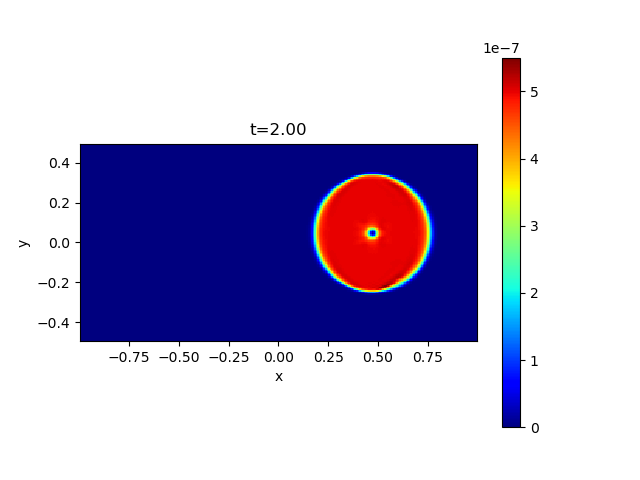
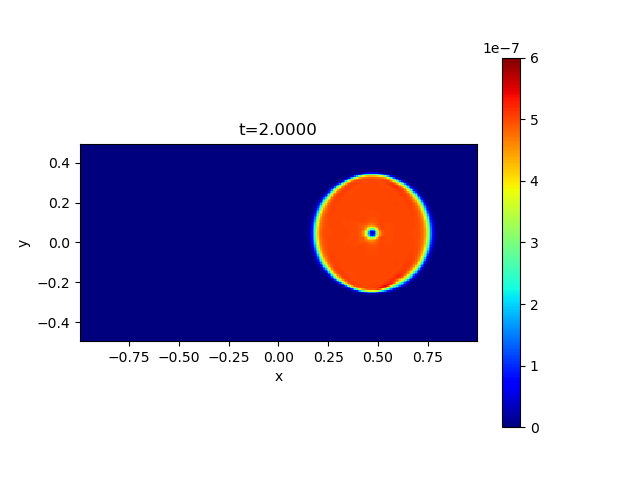
remake 2d images

diff --git a/2D/SERIAL/python/batch.py b/2D/SERIAL/python/batch.py
@@ -69,21 +69,12 @@ ro=data2[0,:,:]
 vx=data2[1,:,:]/ro
 vy=data2[2,:,:]/ro
 vz=data2[3,:,:]/ro
-bx=data2[4,:,:]
-by=data2[5,:,:]
-bxct=bx
-byct=by
-#Check divB (2nd-order)
-divb=np.zeros((ny-2*yoff,nx-2*xoff))
-for j in range(0,ny-2*yoff):
-    for i in range(0,nx-2*xoff):
-        divb[j,i]=(+(data[4,j+yoff,i+1+xoff]-data[4,j+yoff,i+xoff])/dx
-                   +(data[5,j+1+yoff,i+xoff]-data[5,j+yoff,i+xoff])/dy)
-#Cell-face to cell-center B
-for i in range(0,nx-2*xoff):
-    bx[:,i]=0.5*(data[4,yoff:ny-yoff,i+xoff]+data[4,yoff:ny-yoff,i+1+xoff])
-for j in range(0,ny-2*yoff):
-    by[j,:]=0.5*(data[5,j+yoff,xoff:nx-xoff]+data[5,j+1+yoff,xoff:nx-xoff])
+# CT faces, including the physical right/top boundary faces, as in MPI.
+bxct=data[4,yoff:ny-yoff,xoff:nx-xoff+1]
+byct=data[5,yoff:ny-yoff+1,xoff:nx-xoff]
+# Cell-center fields are new arrays; preserve the CT values in data.
+bx=0.5*(bxct[:,:-1]+bxct[:,1:])
+by=0.5*(byct[:-1,:]+byct[1:,:])
 bz=data2[6,:,:]
 en=data2[7,:,:]
 if phi_g is not None:
@@ -91,11 +82,13 @@ if phi_g is not None:
 pr=(gam-1)*(en-0.5*(ro*(vx**2+vy**2+vz**2)+(bx**2+by**2+bz**2)))
 data2=np.array([ro,vx,vy,vz,pr,bx,by,bz])
 
-# Current
-jz=np.zeros((ny-2*yoff,nx-2*xoff))
-for j in range(1,ny-2*yoff):
-    for i in range(1,nx-2*xoff):
-        jz[j,i]=(by[j,i]-by[j,i-1])/dx-(bx[j,i]-bx[j-1,i])/dy # @ corner (i-1/2,j-1/2)
+# CT divergence at all cell centers (second-order diagnostic).
+divb=(bxct[:,1:]-bxct[:,:-1])/dx+(byct[1:,:]-byct[:-1,:])/dy
+# Current at interior corners only, matching the MPI post-processing layout.
+# jz.shape=(len(y)-1,len(x)-1); xjz,yjz are its coordinates.
+xjz=0.5*(x[1:]+x[:-1])
+yjz=0.5*(y[1:]+y[:-1])
+jz=(byct[1:-1,1:]-byct[1:-1,:-1])/dx-(bxct[1:,1:-1]-bxct[:-1,1:-1])/dy
 
 # #Plot
 val=pr/ro

diff --git a/2D/SERIAL/python/batch_a.py b/2D/SERIAL/python/batch_a.py
@@ -69,15 +69,12 @@ ro=data2[:,0,:,:]
 vx=data2[:,1,:,:]/ro
 vy=data2[:,2,:,:]/ro
 vz=data2[:,3,:,:]/ro
-bx=data2[:,4,:,:]
-by=data2[:,5,:,:]
-bxct=bx
-byct=by
-#Cell-face to cell-center B
-for i in range(0,nx-2*xoff):
-    bx[:,:,i]=0.5*(data[:,4,yoff:ny-yoff,i+xoff]+data[:,4,yoff:ny-yoff,i+1+xoff])
-for j in range(0,ny-2*yoff):
-    by[:,j,:]=0.5*(data[:,5,j+yoff,xoff:nx-xoff]+data[:,5,j+1+yoff,xoff:nx-xoff])
+# CT faces, including the physical right/top boundary faces, as in MPI.
+bxct=data[:,4,yoff:ny-yoff,xoff:nx-xoff+1]
+byct=data[:,5,yoff:ny-yoff+1,xoff:nx-xoff]
+# Cell-center fields are new arrays; preserve the CT values in data.
+bx=0.5*(bxct[:,:,:-1]+bxct[:,:,1:])
+by=0.5*(byct[:,:-1,:]+byct[:,1:,:])
 bz=data2[:,6,:,:]
 en=data2[:,7,:,:]
 if phi_g is not None:
@@ -85,3 +82,11 @@ if phi_g is not None:
     en=en-ro*phi_g
 pr=(gam-1)*(en-0.5*(ro*(vx**2+vy**2+vz**2)+(bx**2+by**2+bz**2)))
 data2=np.array([ro,vx,vy,vz,pr,bx,by,bz])
+
+# CT divergence at all cell centers (second-order diagnostic).
+divb=(bxct[:,:,1:]-bxct[:,:,:-1])/dx+(byct[:,1:,:]-byct[:,:-1,:])/dy
+# Current at interior corners only, matching the MPI post-processing layout.
+# jz.shape=(nt,len(y)-1,len(x)-1); xjz,yjz are its coordinates.
+xjz=0.5*(x[1:]+x[:-1])
+yjz=0.5*(y[1:]+y[:-1])
+jz=(byct[:,1:-1,1:]-byct[:,1:-1,:-1])/dx-(bxct[:,1:,1:-1]-bxct[:,:-1,1:-1])/dy

diff --git a/2D/SERIAL/blast/README.md b/2D/SERIAL/blast/README.md
@@ -3,9 +3,11 @@
 This problem suggested by Balsara & Spicer[^1] demonstrates the propagation of MHD shocks in strongly magnetized meidum to assess the robustness of the code.<br>
 The initial condition is *(&rho;,v<sub>x</sub>,v<sub>y</sub>,v<sub>z</sub>,B<sub>x</sub>,B<sub>y</sub>,B<sub>z</sub>,P)*=*(1,0,0,0,10cos(&theta;),10sin(&theta;),0,1)*, and then a high pressure cylinder is imposed at the center of the domain, *P=100* for *&radic;(x<sup>2</sup>+y<sup>2</sup>)&le;0.125* where *-2<x,y<2*. The angle is measured from the x axis, as in `mhd2d_init_.cpp`.
 
-The example result of the gas and magnetic pressures for *&theta;=30&deg;* is shown below (in logarithmic scale).
+The example result of the gas and magnetic pressures for *&theta;=30&deg;* at `t=0.1000` is shown below (in logarithmic scale).
 
 <img src="../../imgs/blast/Figure_1.png" alt="Gas pressure in blast wave" width="500px"> <img src="../../imgs/blast/Figure_2.png" alt="Magnetic pressure in blast wave" width="500px">
+
+These figures were regenerated with `XMESH=YMESH=256`, `RMN=2` (LHLLD), `ODR=2`, `R_K=3`, `CTW=1`, `CFL=0.4`, `DTREC=0.02`, and `N_OUT=5`, using GCC 16.2.0 (C++17, `-O2`) and `OMP_NUM_THREADS=2`. In `batch.py`, select output index `5`, then call `plt2d.image(x, y, np.log10(pr))` and `plt2d.image(x, y, np.log10(0.5*(bx**2+by**2+bz**2)))`. The magnetic fields are the cell-center values loaded by the script. The titles use the actual time in `t.dat`.
 
 ### Serial configuration
 

diff --git a/2D/SERIAL/loop/README.md b/2D/SERIAL/loop/README.md
@@ -10,6 +10,8 @@ The top was obtained with the 2nd-order scheme, and the bottom with the 4th-orde
 <img src="../../imgs/loop/Figure_1_2nd.png" alt="Loop advection t=1" width="500px"> <img src="../../imgs/loop/Figure_2_2nd.png" alt="Loop advection t=2" width="500px">
 <img src="../../imgs/loop/Figure_1_4th.png" alt="Loop advection t=1" width="500px"> <img src="../../imgs/loop/Figure_2_4th.png" alt="Loop advection t=2" width="500px">
 
+These figures were regenerated with `XMESH=256`, `YMESH=128`, `RMN=2` (LHLLD), `R_K=3`, `CTW=1`, `CFL=0.4`, `DTREC=0.5`, and `N_OUT=4`, using GCC 16.2.0 (C++17, `-O2`) and `OMP_NUM_THREADS=2`. Set `ODR=2` or `4`, rebuild, and run each case. In `batch.py`, select output indices `2` and `4`, then set `pm=0.5*(bx**2+by**2+bz**2)` and call `plt2d.image(x, y, pm, equal=1, vmin=0, vmax=6e-7)`. All four panels use the same color scale. The first output is slightly later than `t=1` because the timestep varies; the titles use the actual times in `t.dat`.
+
 ### Serial configuration
 
 This case uses the shared `MHD2D` class and solver in `../common/`. Edit `mhd2d_init_.cpp` for the vector potential, advection velocity, and ambient state. Its temporary vector-potential arrays are local `std::vector` objects. `mhd2d_paras.cpp` sets the domain with `setup_grid()` and defines the boundary conditions; `mymacros.hpp` controls the mesh, output, and solver choices.

diff --git a/2D/SERIAL/KHI/README.md b/2D/SERIAL/KHI/README.md
@@ -15,6 +15,10 @@ The large-scale vortex is stable in the out-of-plane field case (left), while th
 
 <img src="../../imgs/KHI/khi_movie_perp.gif" alt="KH instability (out-of-plane B)" width="480px"> <img src="../../imgs/KHI/khi_movie_oblique.gif" alt="KH instability (in-plane B)" width="480px">
 
+These movies were regenerated with `XMESH=YMESH=256`, `RMN=2` (LHLLD), `ODR=2`, `R_K=3`, `CTW=1`, `CFL=0.4`, `DTREC=4`, `N_OUT=49`, and `RANDOM=0`, using GCC 16.2.0 (C++17, `-O2`) and `OMP_NUM_THREADS=4`. Set `angle_u` in `mhd2d_init_.cpp` to `90.0` or `71.5651`, keeping `angle_l=angle_u` and `beta=1e3`, then rebuild and run each case.
+
+Each movie contains output indices `0` through `49` (`t=0` to `196`) at 10 frames per second. Titles use the actual times in `t.dat`. The LIC rendering uses the cell-center velocity, a fixed noise texture generated with NumPy seed `10`, and a symmetric convolution extending 15 pixels along each direction of the streamline. This texture seed controls visualization only; `RANDOM=0` gives a deterministic sinusoidal physical perturbation.
+
 ### Serial configuration
 
 This case uses the shared `MHD2D` implementation in `../common/`. Edit `mhd2d_init_.cpp` for the shear, magnetic field, and perturbation amplitude; edit `mhd2d_paras.cpp` for `setup_grid()` and boundary conditions.

diff --git a/2D/SERIAL/RMI/README.md b/2D/SERIAL/RMI/README.md
@@ -11,6 +11,10 @@ This simulation was performed in a frame moving with *v<sub>y</sub>=-0.6* so tha
 ![RMI1](../../imgs/RMI/Figure_1.png)
 ![RMI3](../../imgs/RMI/Figure_3.png)
 
+These figures were regenerated with `XMESH=128`, `YMESH=1024`, `RMN=2` (LHLLD), `ODR=2`, `R_K=3`, `CTW=1`, `CFL=0.4`, `DTREC=1`, `N_OUT=15`, `MAGNET=1`, and `RANDOM=0`, using GCC 16.2.0 (C++17, `-O2`) and `OMP_NUM_THREADS=2`. A fixed seed of `10` was used, although the perturbation is deterministic with `RANDOM=0`.
+
+In `batch.py`, select output indices `5` or `15` and plot `ro` with `plt2d.image(x, y, ro, figsize=(4, 8), equal=1, xmin=0, xmax=1, ymin=-1, ymax=2, vmin=4, vmax=45)`. Output index `10` was also regenerated as [Figure_2.png](../../imgs/RMI/Figure_2.png). The titles use the actual times in `t.dat`, including the slight overshoot of the first requested time.
+
 ### Serial configuration
 
 The local `RMI2D` class in `rmi2d_class.hpp/.cpp` derives from the shared `MHD2D` in `../common/`. Edit `rmi2d_init_.cpp` for the initial shock/contact state and inflow parameters, and `mhd2d_paras.cpp` for `setup_grid()` and ordinary boundary conditions.

diff --git a/2D/SERIAL/MRX/README.md b/2D/SERIAL/MRX/README.md
@@ -11,6 +11,8 @@ Following example is the out-of-plane current with localized resistivity (*&prop
 
 ![MRX](../../imgs/MRX/Figure_1.png)
 
+This figure was regenerated at `t=90` with `XMESH=1024`, `YMESH=128`, `RMN=2` (LHLLD), `ODR=2`, `R_K=3`, `CTW=1`, `CFL=0.4`, `DTREC=5`, `N_OUT=18`, `REV=REM=200`, and `RANDOM=0`, using GCC 16.2.0 (C++17, `-O2`) and `OMP_NUM_THREADS=2`. In `batch.py`, select output index `18`, plot the CT-based current `jz` with `plt2d.image(xjz, yjz, jz, figsize=(8, 4), xmin=0, xmax=32, ymin=-4, ymax=4)`, and overlay magnetic field lines with `plt.streamplot(x, y, bx, by, color="white", density=1.5)`. The title uses the actual time in `t.dat`.
+
 ### Serial configuration
 
 This case uses the shared `DMHD2D` implementation in `../common/`; its Makefile selects the dissipative sources with `DISSIPATION := 1`. `dmhd2d_init_.cpp` defines both the initial state and `DMHD2D::setdc()`, where the viscosity and resistivity profiles are configured. `REV` and `REM` in `mymacros.hpp` set their normalization. The current update applies ideal MHD followed by subcycled dissipation.

diff --git a/2D/SERIAL/OTvortex/README.md b/2D/SERIAL/OTvortex/README.md
@@ -3,9 +3,11 @@
 The Orszag-Tang vortex problem is a standard benchmark test for the two-dimensional MHD simulation adopted in many literatures, to verify the capability of capturing multiple interactions of shocks and vortices.<br>
 The initial condition is *(&rho;,v<sub>x</sub>,v<sub>y</sub>,v<sub>z</sub>,B<sub>x</sub>,B<sub>y</sub>,B<sub>z</sub>,P)*=*(&gamma;<sup>2</sup>,-sin(y),sin(x),0,-sin(y),sin(2x),0,&gamma;)* where *&gamma;*=5/3 is specific heat ratio, and *0<x,y<2&pi;*.
 
-An example of the temperature *(=P/&rho;)* profile at *t=&pi;* is shown below.
+An example of the temperature *(=P/&rho;)* profile at `t=3.1416` (approximately *&pi;*) is shown below.
 
 ![OT vortex](../../imgs/OTvortex/Figure_1.png)
+
+This figure was regenerated with `XMESH=YMESH=200`, `RMN=2` (LHLLD), `ODR=2`, `R_K=3`, `CTW=1`, `CFL=0.4`, `DTREC=0.2*3.1416`, and `N_OUT=5`, using GCC 16.2.0 (C++17, `-O2`) and `OMP_NUM_THREADS=2`. Run the case, execute `batch.py`, and select output index `5`; its default plot shows `pr/ro`. The title uses the actual time in `t.dat`.
 
 ### Serial configuration
 

diff --git a/2D/SERIAL/README.md b/2D/SERIAL/README.md
@@ -73,6 +73,8 @@ Enter `dat` when prompted for the data directory, then select an output index. T
 
 To load all output times, execute `exec(open("python/batch_a.py").read())` instead.
 
+In both scripts, `bx, by, bz` are cell-center fields, while `bxct, byct` retain the CT face fields, including the right/top boundary faces. `divb` is the second-order CT divergence at cell centers. As in the MPI scripts, `jz` is the CT curl at interior corners, with shape `(len(y)-1,len(x)-1)` and coordinates `xjz, yjz`; `batch_a.py` adds a leading time dimension. Plot it with `plt2d.image(xjz, yjz, jz)`, or `jz[sst]` after loading all times. The original conserved arrays in `data` are preserved.
+
 Both `batch.py` and `batch_a.py` automatically subtract `rho*phi_g` when `g_potential.dat` is present in the selected data directory; without it, they use the ordinary MHD pressure formula. Keep each output set with its matching potential file, and do not leave a stale potential file in a non-gravitating run's directory. See [RTI/README.md](RTI/README.md) for the file format.
 
 ## License

diff --git a/2D/SERIAL/RTI/README.md b/2D/SERIAL/RTI/README.md
@@ -11,6 +11,8 @@ Example density profiles at t=15.0,20.0 are shown below.
 ![RTI1](../../imgs/RTI/Figure_1.png)
 ![RTI2](../../imgs/RTI/Figure_2.png)
 
+These figures were regenerated with `XMESH=128`, `YMESH=1024`, `RMN=2` (LHLLD), `ODR=4`, `R_K=3`, `CTW=1`, `CFL=0.4`, `DTREC=0.5`, `N_OUT=40`, and `RANDOM=0`, using GCC 16.2.0 (C++17, `-O2`) and `OMP_NUM_THREADS=4`. In `batch.py`, select output indices `30` and `40`, then plot `ro` with `plt2d.image(x, y, ro, figsize=(4, 6), equal=1, xmin=0, xmax=20, ymin=30, ymax=70, vmin=0.1, vmax=1)`. Both panels show the upper interface with the same color scale. The titles use the actual times in `t.dat`.
+
 ### Serial configuration
 
 This case uses the shared gravity-aware `GMHD2D` implementation in `../common/`; its Makefile selects the gravity sources with `GRAVITY := 1`. `gmhd2d_init_.cpp` defines the initial state, prescribed potential, and `GMHD2D::bound()`. The latter contains the special upper/lower energy correction for this RTI setup, not a general-purpose gravitational boundary condition.
